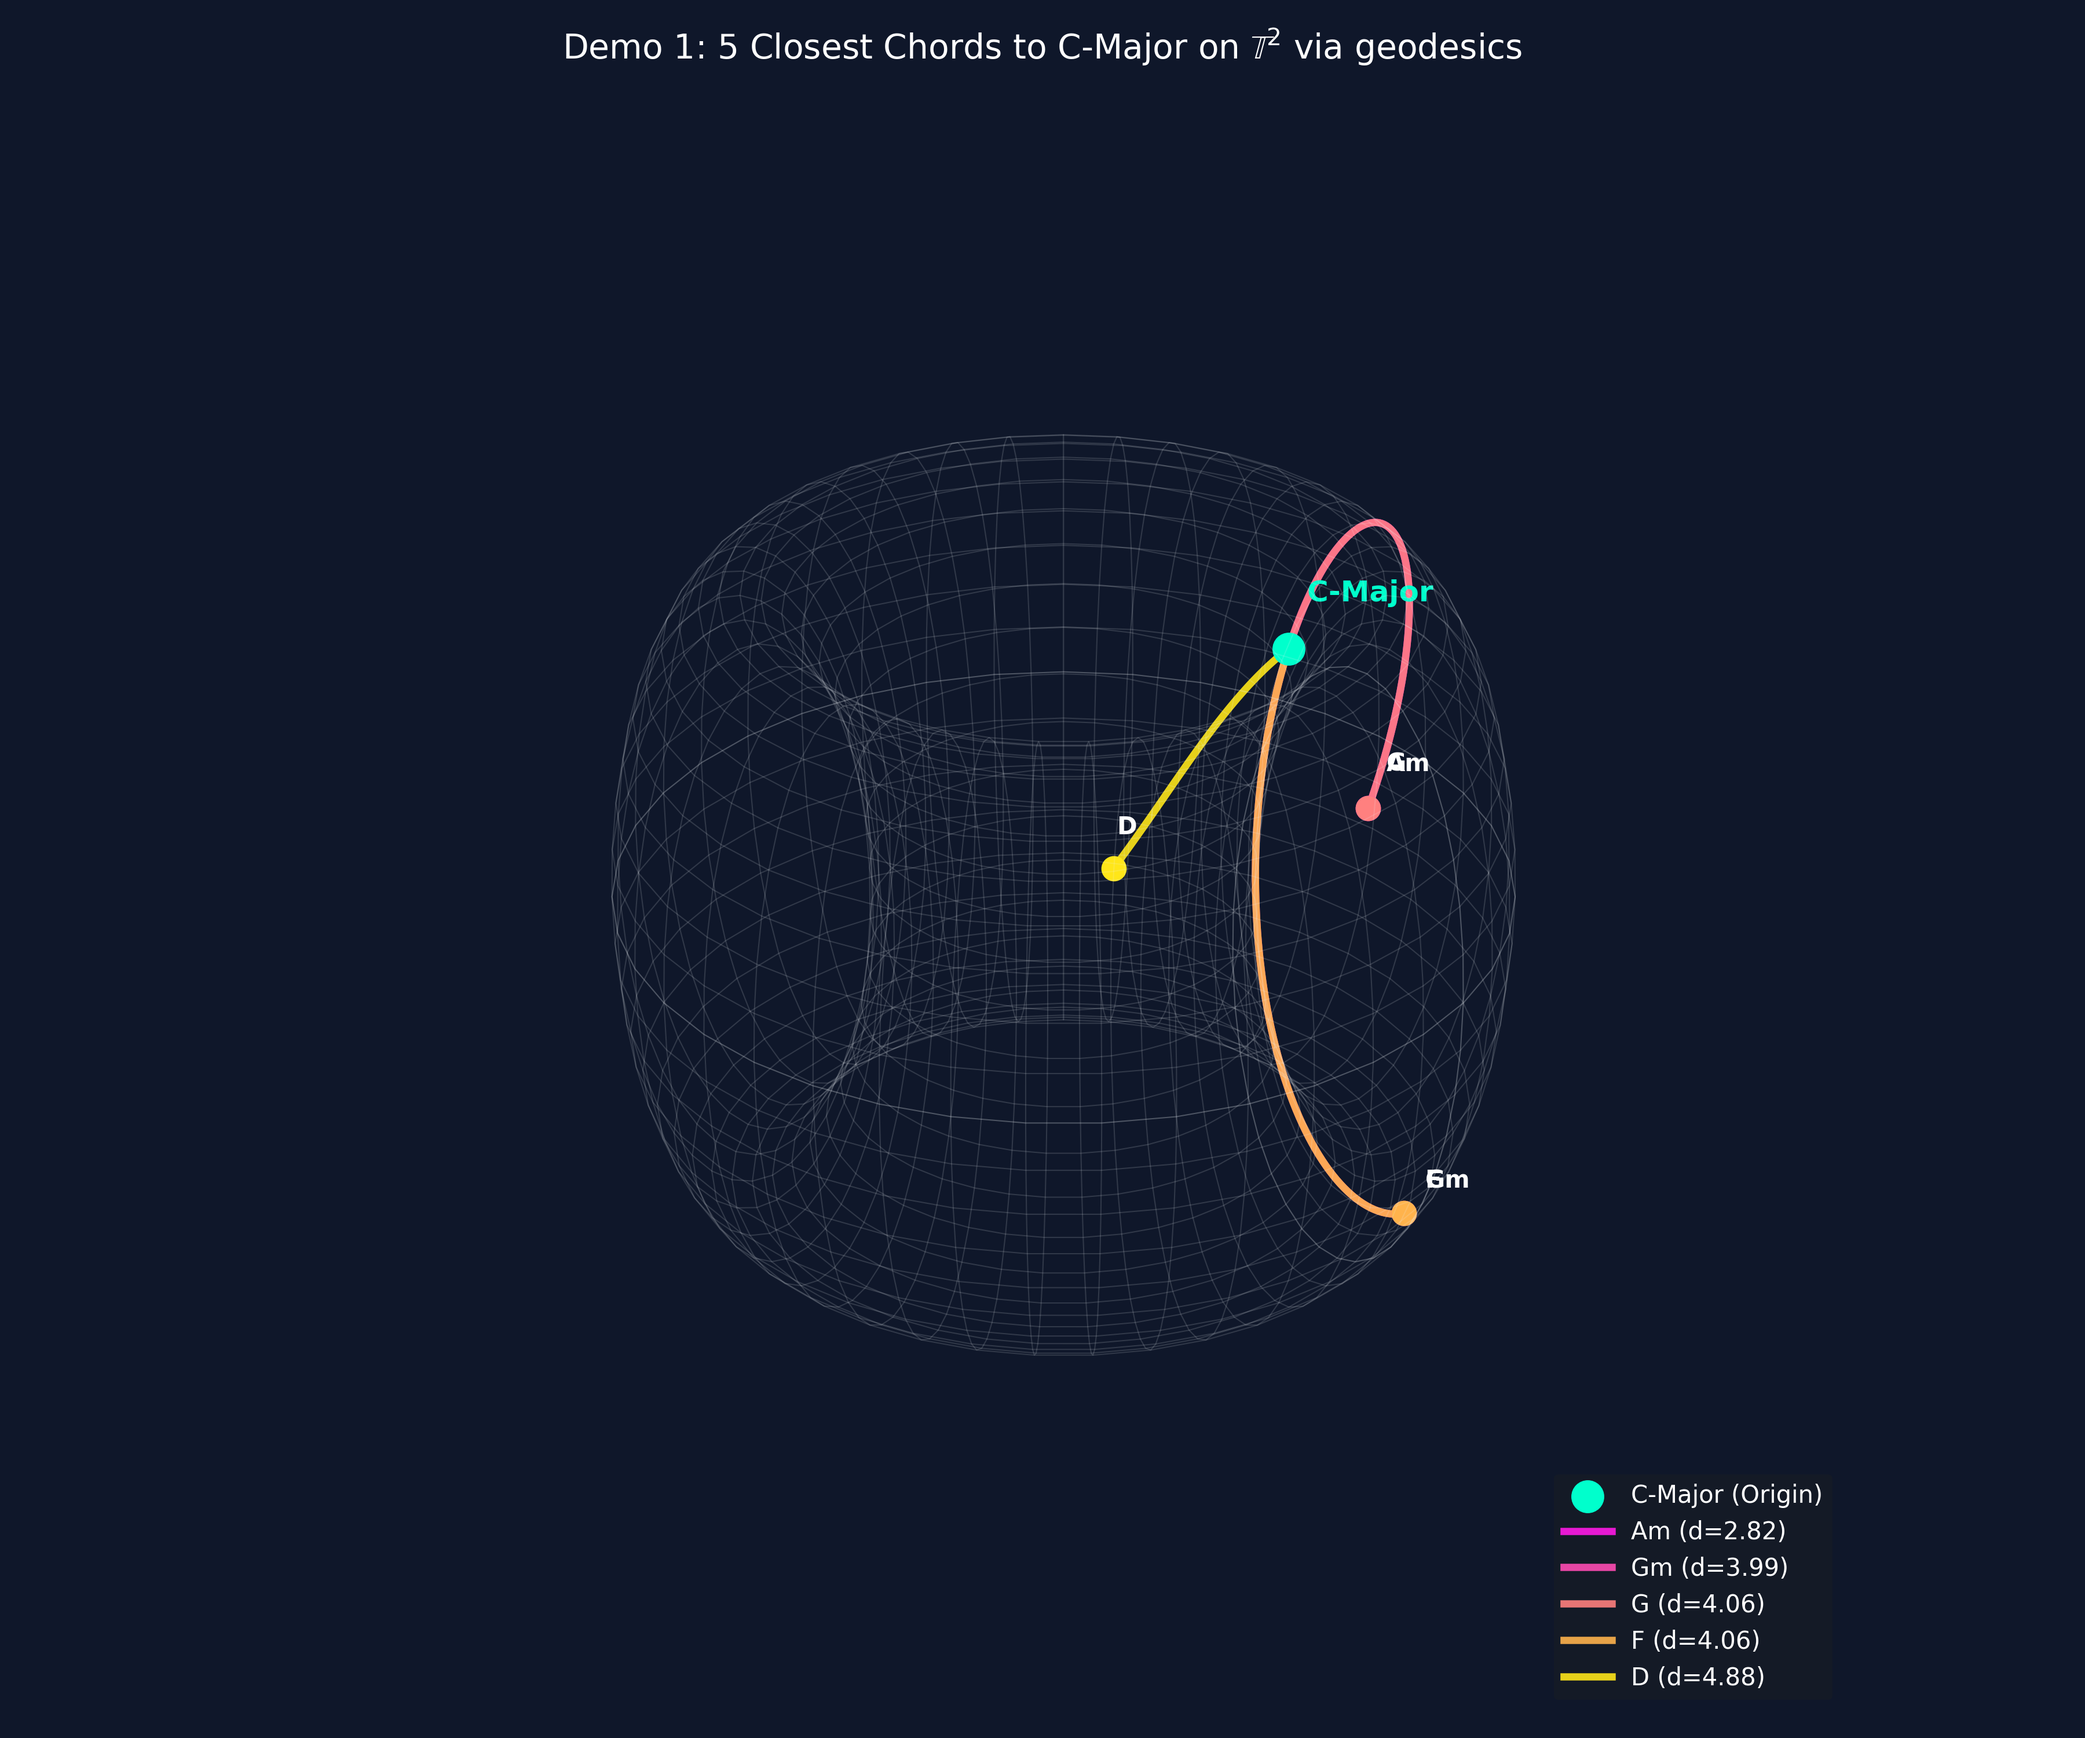
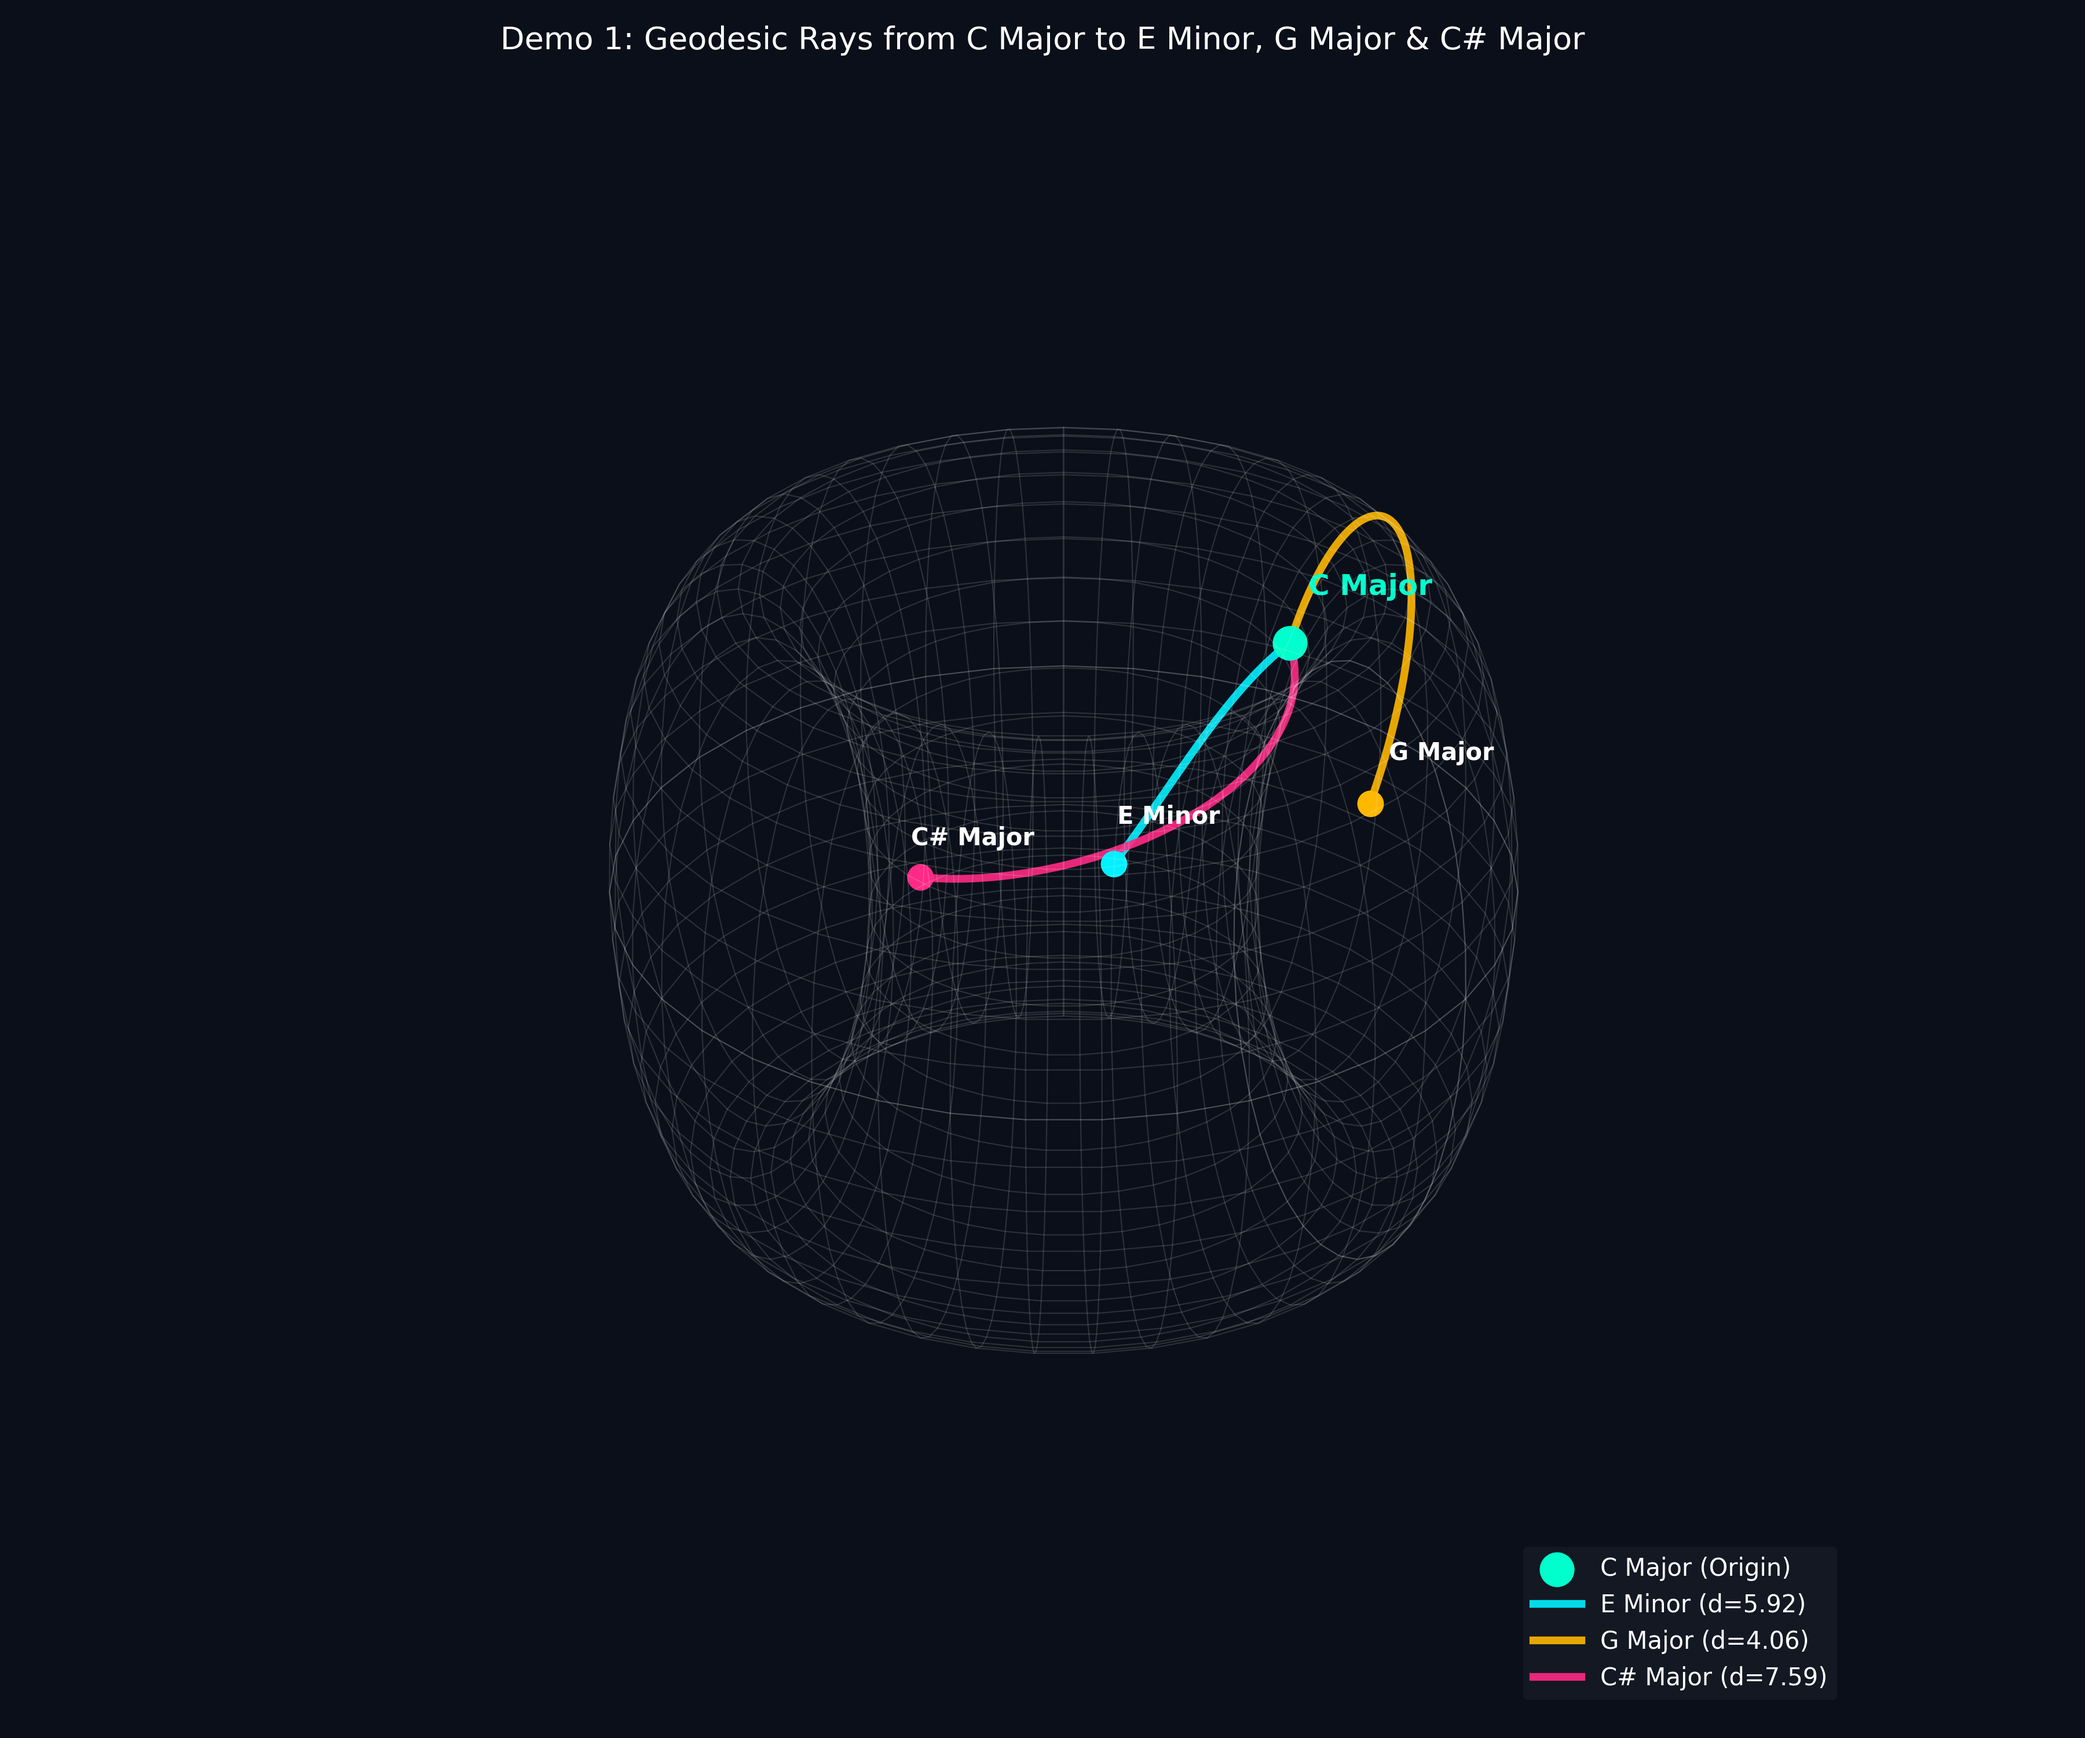
fixed demo 1

Changed region(s): [[0.28, 0.248, 0.7467, 0.775], [0.7156, 0.837, 0.8711, 0.992], [0.2489, 0.0, 0.7467, 0.031]]

diff --git a/DemoHarmonicManifold.py b/DemoHarmonicManifold.py
@@ -30,39 +30,38 @@ def plot_mesh_torus(manifold, ax):
     
     
 def demo_geodesic_flow(manifold: HarmonicManifold):
+    """
+    Renders continuous geodesics for the closest chords relative to C-Major.
+    """
     c_major = HarmonicAlgebra.triad(0, is_major=True)
-    chord_distances = []
-    for chord, label in zip(all_chords, all_labels):
-        if chord == c_major:
-            continue
+    target_definitions = [
+        ("E Minor", HarmonicAlgebra.triad(4, is_major=False)), # (4, 7, 11)  -> Em
+        ("G Major", HarmonicAlgebra.triad(7, is_major=True)),  # (7, 11, 2)  -> G
+        ("C# Major", HarmonicAlgebra.triad(1, is_major=True))  # (1, 5, 8)   -> C#
+     ]
+    target_data = []
+    for label, chord in target_definitions:
         dist = manifold.chord_geodesic(c_major, chord)
-        chord_distances.append((dist, chord, label))
+        target_data.append((label, chord, dist))
+    fig = plt.figure(figsize=(12, 10), facecolor='#0b0f19')
+    ax = fig.add_subplot(111, projection='3d', facecolor='#0b0f19')
 
-    chord_distances.sort(key=lambda x: x[0])
-    closest_5 = chord_distances[:5]
-    
-    fig = plt.figure(figsize=(12, 10), facecolor=background_color)
-    ax = fig.add_subplot(111, projection='3d', facecolor=background_color)
-
-    # Plot Torus Mesh
     plot_mesh_torus(manifold, ax)
-
     c_center = manifold.chord_centroid(c_major)
-    ax.scatter(c_center[0], c_center[1], c_center[2], color='#00ffcc', s=160, zorder=10, label="C-Major (Origin)")
-    ax.text(c_center[0]*1.08, c_center[1]*1.08, c_center[2] + 0.15, "C-Major", color='#00ffcc', fontsize=12, fontweight='bold')
+    ax.scatter(c_center[0], c_center[1], c_center[2], color='#00ffcc', s=180, zorder=10, label="C Major (Origin)")
+    ax.text(c_center[0]*1.08, c_center[1]*1.08, c_center[2] + 0.15, "C Major", color='#00ffcc', fontsize=12, fontweight='bold')
 
-    colors = cm.spring(np.linspace(0.1, 0.9, 5))
+    colors = ['#00F0FF', '#FFB800', '#FF2A85']
 
-    for idx, (dist, chord, label) in enumerate(closest_5):
-        arc = manifold.geodesic_arc(c_major, chord)
-    
-        ax.plot(arc[:, 0], arc[:, 1], arc[:, 2], color=colors[idx], linewidth=3.0, alpha=0.9, label=f"{label} (d={dist:.2f})")
+    for idx, (label, chord, dist) in enumerate(target_data):
+        arc = manifold.geodesic_arc(c_major, chord, num_samples=60)
+        ax.plot(arc[:, 0], arc[:, 1], arc[:, 2], color=colors[idx], linewidth=3.2, alpha=0.9, label=f"{label} (d={dist:.2f})")
     
         target_pt = arc[-1]
-        ax.scatter(target_pt[0], target_pt[1], target_pt[2], color=colors[idx], s=90, depthshade=False, zorder=8)
-        ax.text(target_pt[0]*1.06, target_pt[1]*1.06, target_pt[2] + 0.1, f"{label}", color='white', fontsize=10, fontweight='bold')
+        ax.scatter(target_pt[0], target_pt[1], target_pt[2], color=colors[idx], s=100, depthshade=False, zorder=8)
+        ax.text(target_pt[0]*1.06, target_pt[1]*1.06, target_pt[2] + 0.12, f"{label}", color='white', fontsize=10, fontweight='bold')
 
-    ax.set_title("Demo 1: 5 Closest Chords to C-Major on $\mathbb{T}^2$ via geodesics", color='white', fontsize=14, pad=20)
+    ax.set_title("Demo 1: Geodesic Rays from C Major to E Minor, G Major & C# Major", color='white', fontsize=13, pad=20)
     ax.set_axis_off()
     ax.legend(loc='lower right', facecolor='#161b26', edgecolor='none', labelcolor='white', fontsize=10)
 
@@ -73,8 +72,7 @@ def demo_geodesic_flow(manifold: HarmonicManifold):
 
 def demo_surface_distance_heatmap(manifold: HarmonicManifold, reference_pitch: int = 0):
     """
-    Renders a continuous geodesic distance heatmap mapped directly onto the 
-    surface of the torus, showing harmonic proximity relative to C.
+    Renders a continuous geodesic distance heatmap mapped directly onto the surface of the torus, showing harmonic proximity relative to C.
     """
     fig = plt.figure(figsize=(12, 10), facecolor=background_color)
     ax = fig.add_subplot(111, projection='3d', facecolor=background_color)
